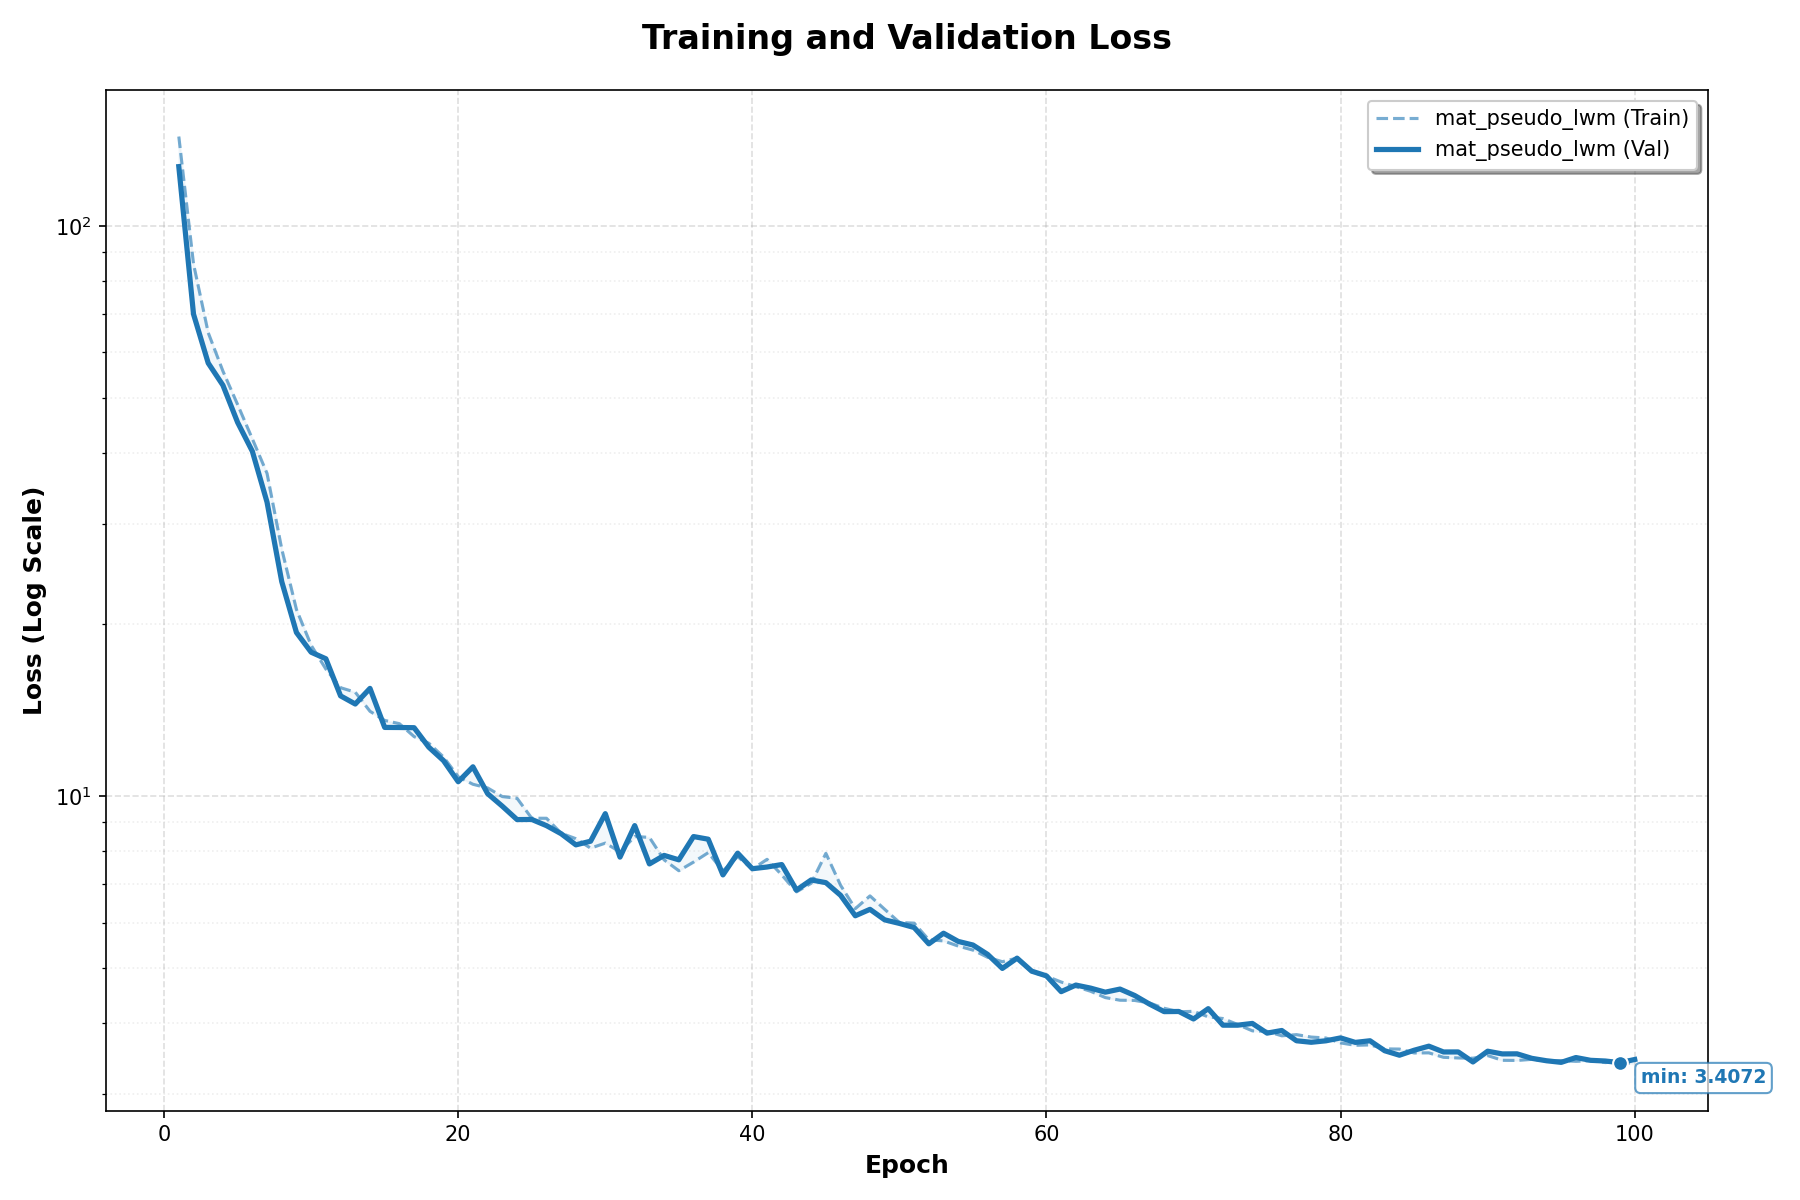
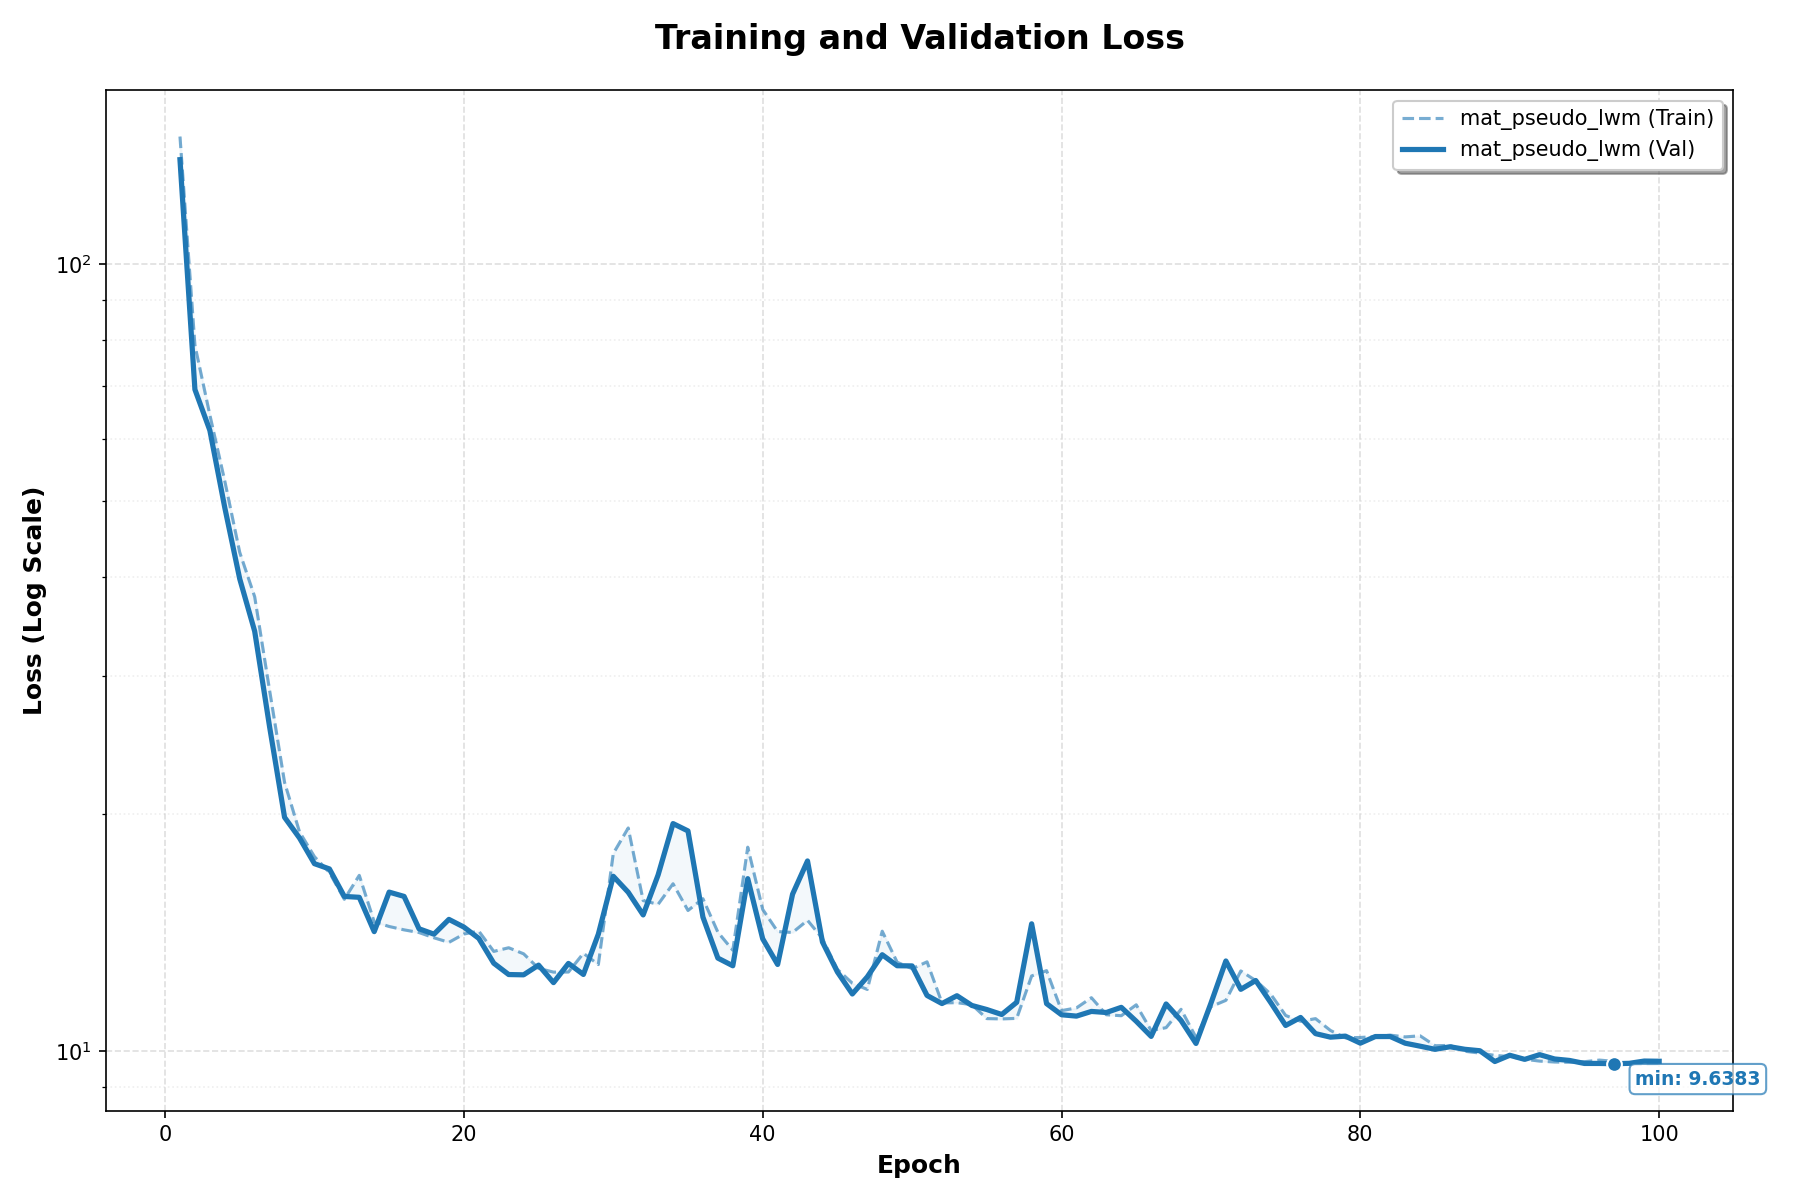
fixes

diff --git a/mask_aware_tf_heavy/mat_vit_lwm.py b/mask_aware_tf_heavy/mat_vit_lwm.py
@@ -219,11 +219,10 @@ class MATStage(nn.Module):
           block1: shift=False
           block2: shift=shift (argument)
         """
-        identity = x
         x = self.block1(x, valid_mask, shift=False)
         x = self.block2(x, valid_mask, shift=shift)
-        x = self.conv(x)
-        return identity + self.gamma_stage * x
+        x = x + self.gamma_stage * self.conv(x)
+        return x
 
 
 # =============================================================================
